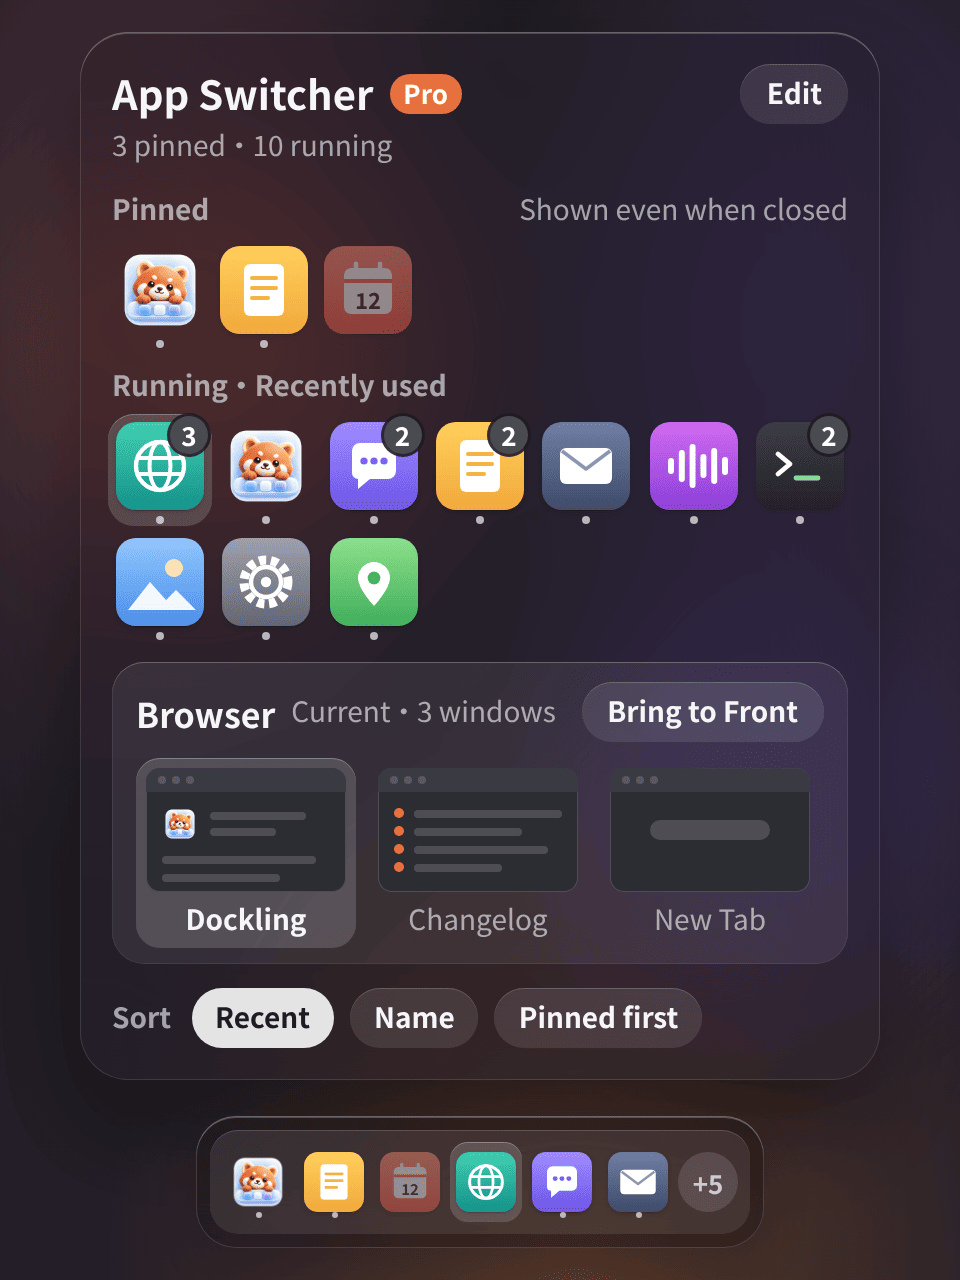
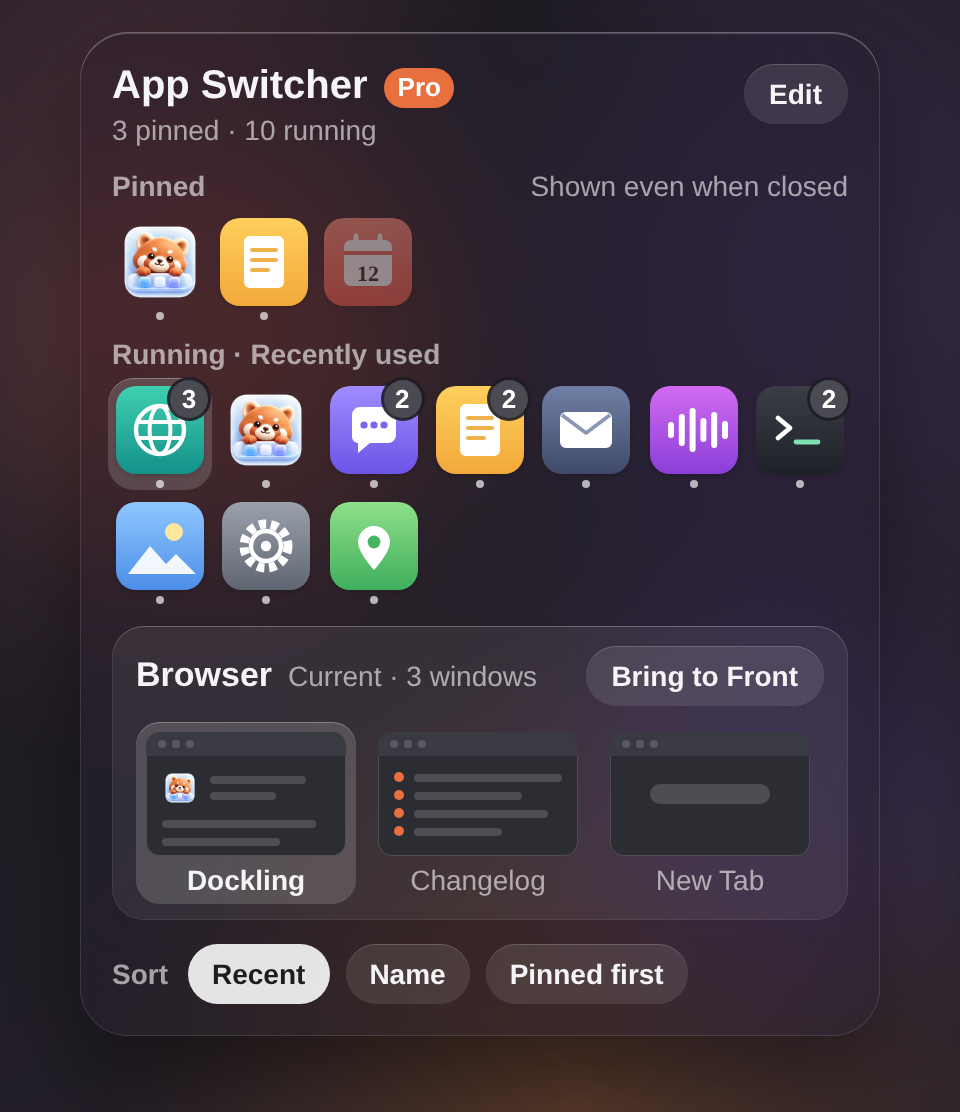
官网：应用切换器卡片拆出扩展栏卡片横图放在文字下方，两边对齐；README 标语改为免费下载、可升级 Pro

diff --git a/docs/index.html b/docs/index.html
@@ -70,7 +70,7 @@
 <article class="card feat wide" id="feat-dock-icons"><div class="feat-text"><h3><span data-l="zh" lang="zh-Hans">程序坞自定义应用图标</span><span data-l="en" lang="en">Custom app icons in the Dock</span> <span class="protag">Pro</span> <span class="betatag"><span data-l="zh" lang="zh-Hans">1.0 新增</span><span data-l="en" lang="en">New in 1.0</span></span></h3><p data-l="zh" lang="zh-Hans">给程序坞里的 App 换一个自己喜欢的图标。只改码头里显示的样子，不动系统，也不动 App 本身；点按启动、运行指示和角标都照旧。</p><p data-l="en" lang="en">Give any app in the Dock an icon you like. Only what Dockling draws changes: macOS and the app itself are left alone, and launching, the running dot and badges work as before.</p><ul class="ticks"><li><span data-l="zh" lang="zh-Hans"><strong>右键换：</strong>右键 App 选「更换图标…」，挑一张图片（PNG、JPG、HEIC、ICNS，自动缩放成方形），或选另一个 App 用它的图标。想改回来就点「恢复默认图标」。</span><span data-l="en" lang="en"><strong>Right-click:</strong> choose <strong>Change Icon…</strong> on an app, then pick an image (PNG, JPG, HEIC or ICNS, scaled to a square) or another app to borrow its icon. <strong>Restore Default Icon</strong> puts the original back.</span></li><li><span data-l="zh" lang="zh-Hans"><strong>按住 Option 拖上去：</strong>把图片或另一个 App 拖到扩展栏或分组窗口里的 App 图标上，按住 Option 松手就换好。不按 Option 拖文件，照旧是用这个 App 打开。</span><span data-l="en" lang="en"><strong>Hold Option and drop:</strong> drag an image or another app onto an app icon on the shelf or in a group window, hold Option and let go. Without Option, dropping a file still opens it in that app.</span></li><li><span data-l="zh" lang="zh-Hans"><strong>码头自己的图标：</strong>新增 7 款小熊猫配色，深色、万圣节、圣诞节免费，戴皇冠的蓝、红、金、炫彩 4 款属于 Pro，在 设置 ▸ 通用 ▸ 应用图标 里换。</span><span data-l="en" lang="en"><strong>Dockling's own icon:</strong> 7 new red panda colours. Dark, Halloween and Christmas are free; the four crowned ones (blue, red, gold, rainbow) are Pro. Pick one in Settings ▸ General ▸ App Icon.</span></li></ul><figure class="mock-fig strip-mock"><img data-shot="mock-panda-icons" src="images/zh/mock-panda-icons.png" width="1440" height="292" alt="示意图：码头应用图标的 7 款小熊猫新配色 / Illustration: the 7 new red panda colours for Dockling's icon" loading="lazy"><figcaption><span data-l="zh" lang="zh-Hans">码头应用图标 7 款新配色，标 Pro 的 4 款属于码头 Pro（示意图）</span><span data-l="en" lang="en">7 new colours for Dockling's icon; the 4 marked Pro are part of Dockling Pro (illustration)</span></figcaption></figure></div><figure class="mock-fig"><img data-shot="mock-dock-icons" src="images/zh/mock-dock-icons.png" width="1440" height="960" alt="示意图：左边右键 App 选「更换图标…」，右边按住 Option 把图片拖到 App 图标上 / Illustration: on the left, Change Icon… from an app's context menu; on the right, holding Option while dropping an image onto an app icon" loading="lazy"><figcaption><span data-l="zh" lang="zh-Hans">两种换法：右键「更换图标…」，或按住 Option 把图片、App 拖到图标上（示意图）</span><span data-l="en" lang="en">Two ways: Change Icon… from the context menu, or hold Option and drop an image or app on the icon (illustration)</span></figcaption></figure></article>
 <article class="card feat" id="feat-typing"><div class="feat-text"><h3><span data-l="zh" lang="zh-Hans">打字音效</span><span data-l="en" lang="en">Typing sounds</span> <span class="protag part"><span data-l="zh" lang="zh-Hans">含 Pro</span><span data-l="en" lang="en">Some Pro</span></span> <span class="betatag"><span data-l="zh" lang="zh-Hans">1.0 新增</span><span data-l="en" lang="en">New in 1.0</span></span></h3><p data-l="zh" lang="zh-Hans">打字时放机械键盘或打字机的声音，回车、空格、删除各有自己的声音，默认关闭。</p><p data-l="en" lang="en">Hear a mechanical keyboard or a typewriter as you type, with separate sounds for Return, Space and Delete. Off by default.</p><ul class="ticks"><li><span data-l="zh" lang="zh-Hans"><strong>7 种声音：</strong>青轴免费；茶轴、打字机、红轴、黑轴、静电容、白噪安静款属于 Pro。</span><span data-l="en" lang="en"><strong>7 sounds:</strong> Blue switch is free; Brown switch, Typewriter, Red switch, Black switch, Capacitive and Quiet hush are Pro.</span></li><li><span data-l="zh" lang="zh-Hans"><strong>Mechvibes 声音包：</strong>导入 .zip 或文件夹，只在本机读取 <span class="protag">Pro</span>。</span><span data-l="en" lang="en"><strong>Mechvibes sound packs:</strong> import a .zip or a folder, read on this Mac only <span class="protag">Pro</span>.</span></li><li><span data-l="zh" lang="zh-Hans"><strong>输入密码时自动静音。</strong>需要「输入监控」权限，只用来知道按了哪个键，不读、不存、不上传你打的内容。</span><span data-l="en" lang="en"><strong>Muted while you type a password.</strong> It needs Input Monitoring only to know which key was pressed; nothing you type is read, stored or uploaded.</span></li></ul></div><figure class="mock-fig"><img data-shot="mock-typing-sounds" src="images/zh/mock-typing-sounds.png" width="1440" height="960" alt="示意图：打字音效设置：7 种声音卡片、导入 Mechvibes 声音包和音量 / Illustration: Typing Sounds settings with the 7 sound cards, Mechvibes import and volume" loading="lazy"><figcaption><span data-l="zh" lang="zh-Hans">打字音效设置：7 种声音，名字下面标着真实录音或原创合成（示意图）</span><span data-l="en" lang="en">Typing Sounds settings: 7 sounds, each marked as a real recording or an original synthesis (illustration)</span></figcaption></figure></article>
 <article class="card feat" id="feat-input-source"><div class="feat-text"><h3><span data-l="zh" lang="zh-Hans">输入法自动切换</span><span data-l="en" lang="en">Automatic input source switching</span> <span class="protag part"><span data-l="zh" lang="zh-Hans">含 Pro</span><span data-l="en" lang="en">Some Pro</span></span> <span class="betatag"><span data-l="zh" lang="zh-Hans">1.0 新增</span><span data-l="en" lang="en">New in 1.0</span></span></h3><p data-l="zh" lang="zh-Hans">切到哪个 App，就换成它的输入法；刘海下落下一个液态玻璃小胶囊，告诉你换成了哪个。</p><p data-l="en" lang="en">Switch to an app and its input source comes with it, while a small Liquid Glass capsule drops from the notch to show which one.</p><ul class="ticks"><li><span data-l="zh" lang="zh-Hans"><strong>免费：</strong>自动切换；没有规则的 App 用默认输入法，或按 App 记住上次用的；提示放在刘海下、光标旁或关掉，停留时间可调。</span><span data-l="en" lang="en"><strong>Free:</strong> automatic switching; apps without a rule get your default input source or the one they used last; the hint sits below the notch, beside the cursor or off, for as long as you like.</span></li><li><span data-l="zh" lang="zh-Hans"><strong>按 App 规则 <span class="protag">Pro</span>：</strong>一个 App 一条规则，比如终端固定 ABC、备忘录固定拼音。</span><span data-l="en" lang="en"><strong>Per-app rules <span class="protag">Pro</span>:</strong> one rule per app, such as ABC for Terminal and Pinyin for Notes.</span></li><li><span data-l="zh" lang="zh-Hans">读取和切换输入法不需要权限，只有「光标旁」要辅助功能权限。</span><span data-l="en" lang="en">Reading and switching input sources needs no permission; only Beside the Cursor needs Accessibility.</span></li></ul></div><figure class="mock-fig"><img data-shot="mock-input-source" src="images/zh/mock-input-source.png" width="1440" height="960" alt="示意图：切到备忘录时刘海下落下「简体拼音」胶囊，下面是按 App 规则 / Illustration: a Pinyin capsule dropping from the notch on switching to Notes, above the per-app rules" loading="lazy"><figcaption><span data-l="zh" lang="zh-Hans">切到备忘录，刘海下落下输入法提示；下面是按 App 规则（示意图）</span><span data-l="en" lang="en">Switching to Notes drops an input source hint from the notch; per-app rules below (illustration)</span></figcaption></figure></article>
-<article class="card feat wide" id="feat-app-switcher"><div class="feat-text"><h3><span data-l="zh" lang="zh-Hans">应用切换器</span><span data-l="en" lang="en">App Switcher</span> <span class="protag">Pro</span> <span class="vertag"><span data-l="zh" lang="zh-Hans">v0.7.0 起</span><span data-l="en" lang="en">Since v0.7.0</span></span></h3><p data-l="zh" lang="zh-Hans">扩展栏上的一张卡片列出正在运行的 App，点一下就切过去；点开面板是 ⌘Tab 式的大图标网格，选中一个 App，下面就展开它的窗口缩略图，点缩略图直接跳到那个窗口。</p><p data-l="en" lang="en">A card on the shelf lists your running apps; click one to switch to it. Its panel is a ⌘Tab-style grid of big icons: pick an app to see its windows as thumbnails below, then click one to jump straight to it.</p><ul class="ticks"><li><span data-l="zh" lang="zh-Hans"><strong>卡片：</strong>一排图标，固定的排在前面，没开的半透明，点了启动；当前 App 垫一块浅色底，放不下时显示 +N。</span><span data-l="en" lang="en"><strong>The card:</strong> a row of icons with pinned apps first, faded when closed and launched on click; the current app sits on a light highlight, and +N shows when they do not all fit.</span></li><li><span data-l="zh" lang="zh-Hans"><strong>面板：</strong>固定和正在运行的 App 排成大图标网格，列数跟着面板宽度变，开了多个窗口的在右上角标出窗口数；方向键移动，回车切换，空格展开，Esc 收起。</span><span data-l="en" lang="en"><strong>The panel:</strong> pinned and running apps in a grid of big icons whose columns follow the panel width, with a window count on apps that have more than one; arrow keys move, Return switches, Space expands and Esc closes.</span></li><li><span data-l="zh" lang="zh-Hans"><strong>窗口缩略图：</strong>点缩略图跳到那个窗口，「切到前台」只切 App；缩略图需要屏幕录制权限，没给时列出窗口标题（读窗口需要辅助功能权限）。</span><span data-l="en" lang="en"><strong>Window thumbnails:</strong> click one to jump to that window, or use Bring to Front to switch to the app only; thumbnails need Screen Recording, and without it you get window titles (reading windows needs Accessibility).</span></li><li><span data-l="zh" lang="zh-Hans"><strong>固定、排序和隐藏：</strong>最多固定 12 个；最近使用、名称、固定在前三种排法，不想看到的 App 可以隐藏。</span><span data-l="en" lang="en"><strong>Pin, sort and hide:</strong> pin up to 12 apps, sort by recently used, by name or pinned first, and hide the apps you never want to see there.</span></li></ul></div><figure class="mock-fig"><picture><source media="(prefers-color-scheme: dark)" data-shot="mock-app-switcher-dark" srcset="images/zh/mock-app-switcher-dark.png"><img data-shot="mock-app-switcher" src="images/zh/mock-app-switcher.png" width="960" height="1280" alt="示意图：应用切换器面板，大图标网格里选中浏览器，下面展开它的 3 个窗口缩略图；底部是扩展栏上的应用切换器卡片 / Illustration: the App Switcher panel with Browser selected in the icon grid and its 3 window thumbnails below; the App Switcher card on the shelf at the bottom" loading="lazy"></picture><figcaption><span data-l="zh" lang="zh-Hans">应用切换器：图标网格、窗口缩略图和扩展栏卡片（示意图）</span><span data-l="en" lang="en">App Switcher: icon grid, window thumbnails and the shelf card (illustration)</span></figcaption></figure></article>
+<article class="card feat wide" id="feat-app-switcher"><div class="feat-text"><h3><span data-l="zh" lang="zh-Hans">应用切换器</span><span data-l="en" lang="en">App Switcher</span> <span class="protag">Pro</span> <span class="vertag"><span data-l="zh" lang="zh-Hans">v0.7.0 起</span><span data-l="en" lang="en">Since v0.7.0</span></span></h3><p data-l="zh" lang="zh-Hans">扩展栏上的一张卡片列出正在运行的 App，点一下就切过去；点开面板是 ⌘Tab 式的大图标网格，选中一个 App，下面就展开它的窗口缩略图，点缩略图直接跳到那个窗口。</p><p data-l="en" lang="en">A card on the shelf lists your running apps; click one to switch to it. Its panel is a ⌘Tab-style grid of big icons: pick an app to see its windows as thumbnails below, then click one to jump straight to it.</p><ul class="ticks"><li><span data-l="zh" lang="zh-Hans"><strong>卡片：</strong>一排图标，固定的排在前面，没开的半透明，点了启动；当前 App 垫一块浅色底，放不下时显示 +N。</span><span data-l="en" lang="en"><strong>The card:</strong> a row of icons with pinned apps first, faded when closed and launched on click; the current app sits on a light highlight, and +N shows when they do not all fit.</span></li><li><span data-l="zh" lang="zh-Hans"><strong>面板：</strong>固定和正在运行的 App 排成大图标网格，列数跟着面板宽度变，开了多个窗口的在右上角标出窗口数；方向键移动，回车切换，空格展开，Esc 收起。</span><span data-l="en" lang="en"><strong>The panel:</strong> pinned and running apps in a grid of big icons whose columns follow the panel width, with a window count on apps that have more than one; arrow keys move, Return switches, Space expands and Esc closes.</span></li><li><span data-l="zh" lang="zh-Hans"><strong>窗口缩略图：</strong>点缩略图跳到那个窗口，「切到前台」只切 App；缩略图需要屏幕录制权限，没给时列出窗口标题（读窗口需要辅助功能权限）。</span><span data-l="en" lang="en"><strong>Window thumbnails:</strong> click one to jump to that window, or use Bring to Front to switch to the app only; thumbnails need Screen Recording, and without it you get window titles (reading windows needs Accessibility).</span></li><li><span data-l="zh" lang="zh-Hans"><strong>固定、排序和隐藏：</strong>最多固定 12 个；最近使用、名称、固定在前三种排法，不想看到的 App 可以隐藏。</span><span data-l="en" lang="en"><strong>Pin, sort and hide:</strong> pin up to 12 apps, sort by recently used, by name or pinned first, and hide the apps you never want to see there.</span></li></ul><figure class="mock-fig strip-mock"><picture><source media="(prefers-color-scheme: dark)" data-shot="mock-app-switcher-card-dark" srcset="images/zh/mock-app-switcher-card-dark.png"><img data-shot="mock-app-switcher-card" src="images/zh/mock-app-switcher-card.png" width="1440" height="240" alt="示意图：扩展栏上的应用切换器卡片，当前的浏览器垫浅色底，放不下的显示 +5 / Illustration: the App Switcher card on the shelf, with the current browser highlighted and +5 for the rest" loading="lazy"></picture><figcaption><span data-l="zh" lang="zh-Hans">扩展栏上的应用切换器卡片（示意图）</span><span data-l="en" lang="en">The App Switcher card on the shelf (illustration)</span></figcaption></figure></div><figure class="mock-fig"><picture><source media="(prefers-color-scheme: dark)" data-shot="mock-app-switcher-dark" srcset="images/zh/mock-app-switcher-dark.png"><img data-shot="mock-app-switcher" src="images/zh/mock-app-switcher.png" width="960" height="1112" alt="示意图：应用切换器面板，大图标网格里选中浏览器，下面展开它的 3 个窗口缩略图 / Illustration: the App Switcher panel with Browser selected in the icon grid and its 3 window thumbnails below" loading="lazy"></picture><figcaption><span data-l="zh" lang="zh-Hans">应用切换器面板：图标网格和窗口缩略图（示意图）</span><span data-l="en" lang="en">App Switcher panel: icon grid and window thumbnails (illustration)</span></figcaption></figure></article>
 </div>
 </div></section>
 

diff --git a/README.en.md b/README.en.md
@@ -4,7 +4,7 @@
 
 # Dockling 码头
 
-### A free, open source Dock shelf for macOS, in English and Simplified Chinese.
+### A free Dock shelf for macOS with an optional Pro upgrade and a red panda desktop pet, in English and Simplified Chinese.
 
 **Website: [docket.shiduo.app](https://docket.shiduo.app)** · [简体中文](README.md) | English
 

diff --git a/README.md b/README.md
@@ -4,7 +4,7 @@
 
 # 码头 Dockling
 
-### 免费、开源的 macOS 程序坞扩展栏，简体中文界面。
+### 免费下载、可升级 Pro 的 macOS 程序坞扩展栏，带小熊猫桌宠，简体中文界面。
 
 **官网：[docket.shiduo.app](https://docket.shiduo.app)** · 简体中文 | [English](README.en.md)
 
